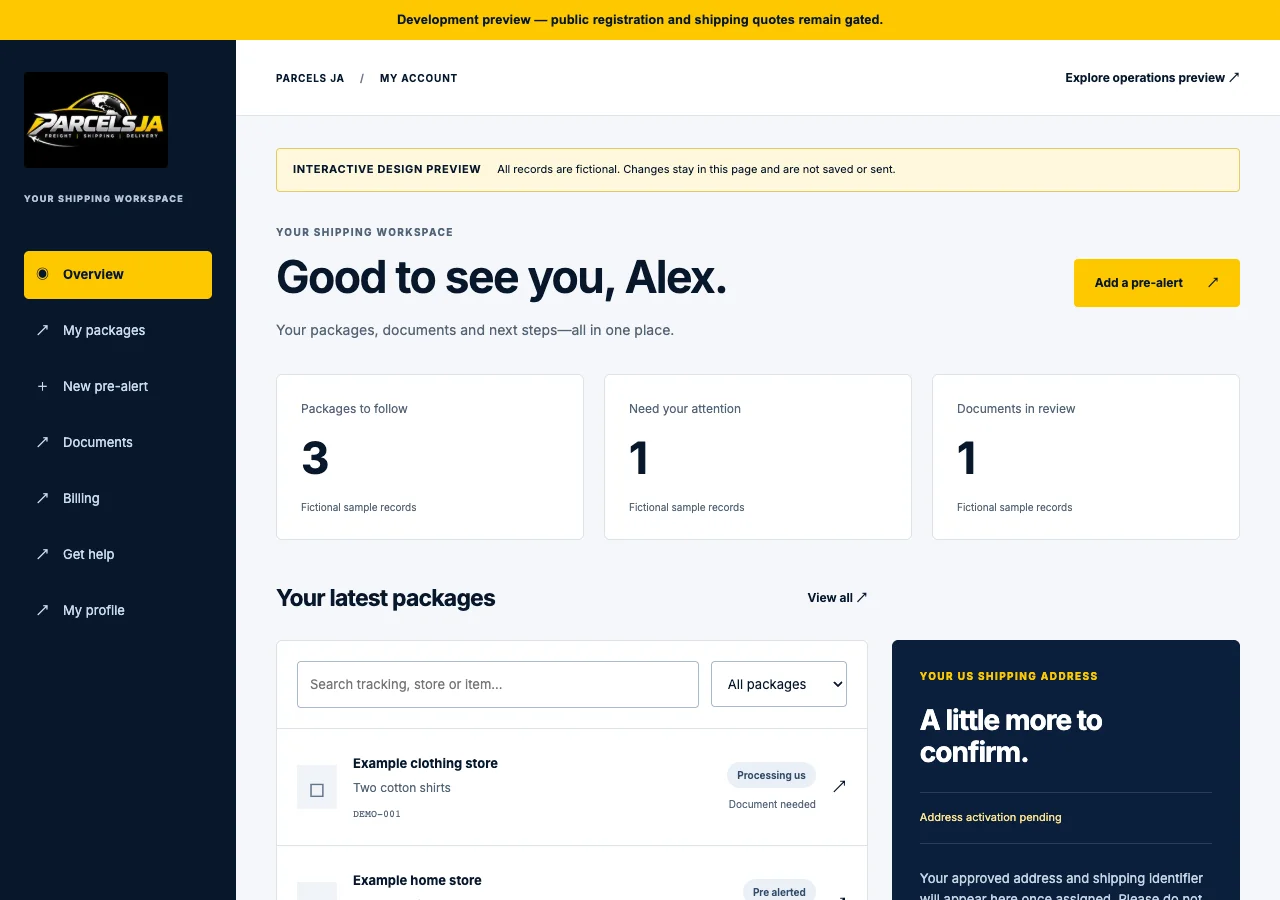
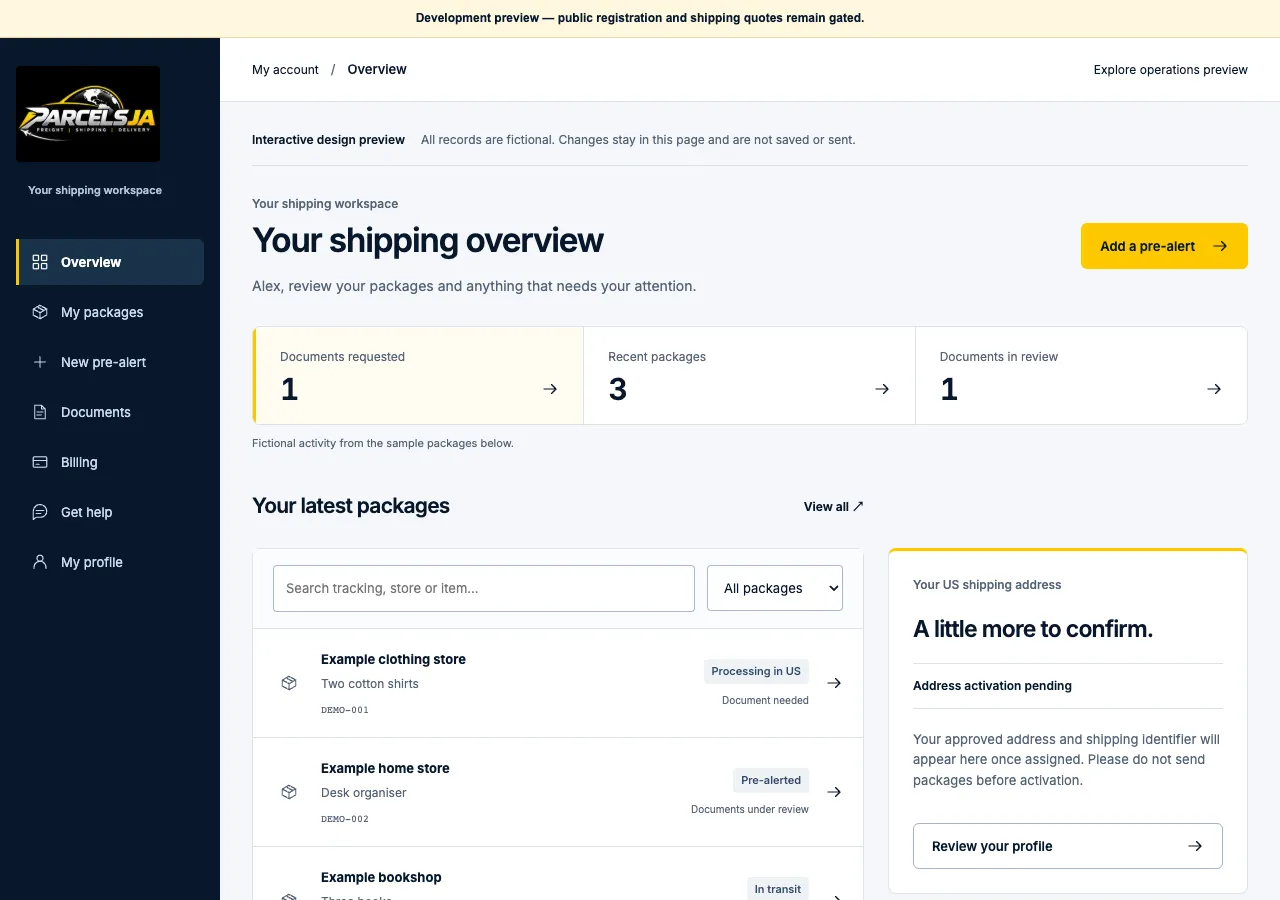
Refresh actual customer app screenshot and document preview verification

diff --git a/docs/CONSIDERED_DESIGN_PASS.md b/docs/CONSIDERED_DESIGN_PASS.md
@@ -23,3 +23,11 @@ Reskin, not rebuild. Preserve Parcels JA's original logo, approved Jamaican life
 Build, formatting, lint/types, full existing unit/browser/form suite, narrow/desktop screenshots, keyboard/navigation/zoom checks and axe accessibility. Verify summary links, package filtering, child-route navigation context and demo non-persistence. Check the authorized parcelsjm preview with disabled registration and protected real apps. Compare source detector results with the same baseline; document heuristic false positives rather than suppressing them. Confirm original logo/lifestyle asset checksums unchanged. Release only after preview review.
 
 The source detector's document warning points at the shared `post` helper. Existing callers catch failures and the rendered document list provides an empty/error state; inspect those actual branches before treating this heuristic as a regression.
+
+## Verification results
+
+- GitHub Actions run 39500658931 passed on implementation commit `b327596`: formatting, lint, types, production build, dependency audit and the complete unit/browser/form suites. The browser suite includes the two new summary/navigation journeys across five viewport widths.
+- Vercel preview `dpl_7AUBY2YfXM15yFEyWVt22jRQyMHB` reached READY. Hosted checks passed for home, customer overview, operations overview, invoice, operational queue, registration and customer documents at 390px and 1440px: HTTP 200, no horizontal overflow, no axe WCAG A/AA violations and no browser errors. Screenshots were inspected for hierarchy and responsive layout.
+- The homepage app image was recaptured from the actual revised fictional customer demo at 1280 × 900, with its explicit preview labels. Original logo and approved lifestyle image files are unchanged from main.
+- Source detector v0.13.0: before **0 errors / 2 warnings** (12 workspace files); after **0 errors / 1 warning** (13 files, including local SVG icons). The remaining shared document-request helper warning is a reviewed heuristic limitation: its callers catch failures and the UI has empty/error branches. No detector suppression was added.
+- No database migrations, API contracts, commercial rules, privileges or production flags were changed. This branch is for preview review; production remains on main `23ae5e8`.
